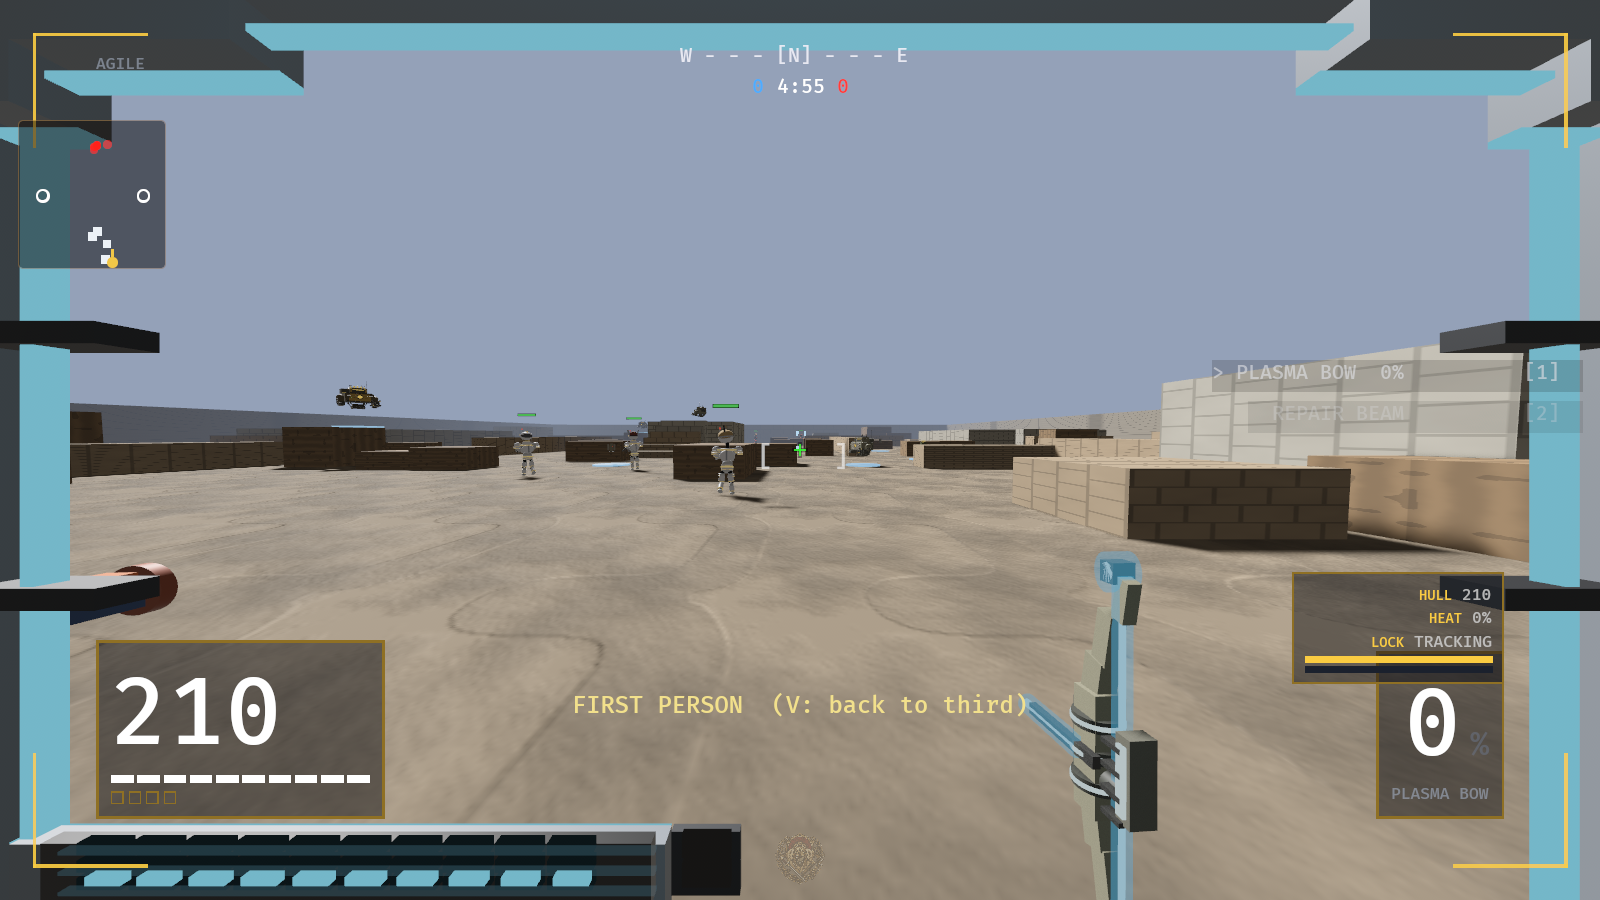
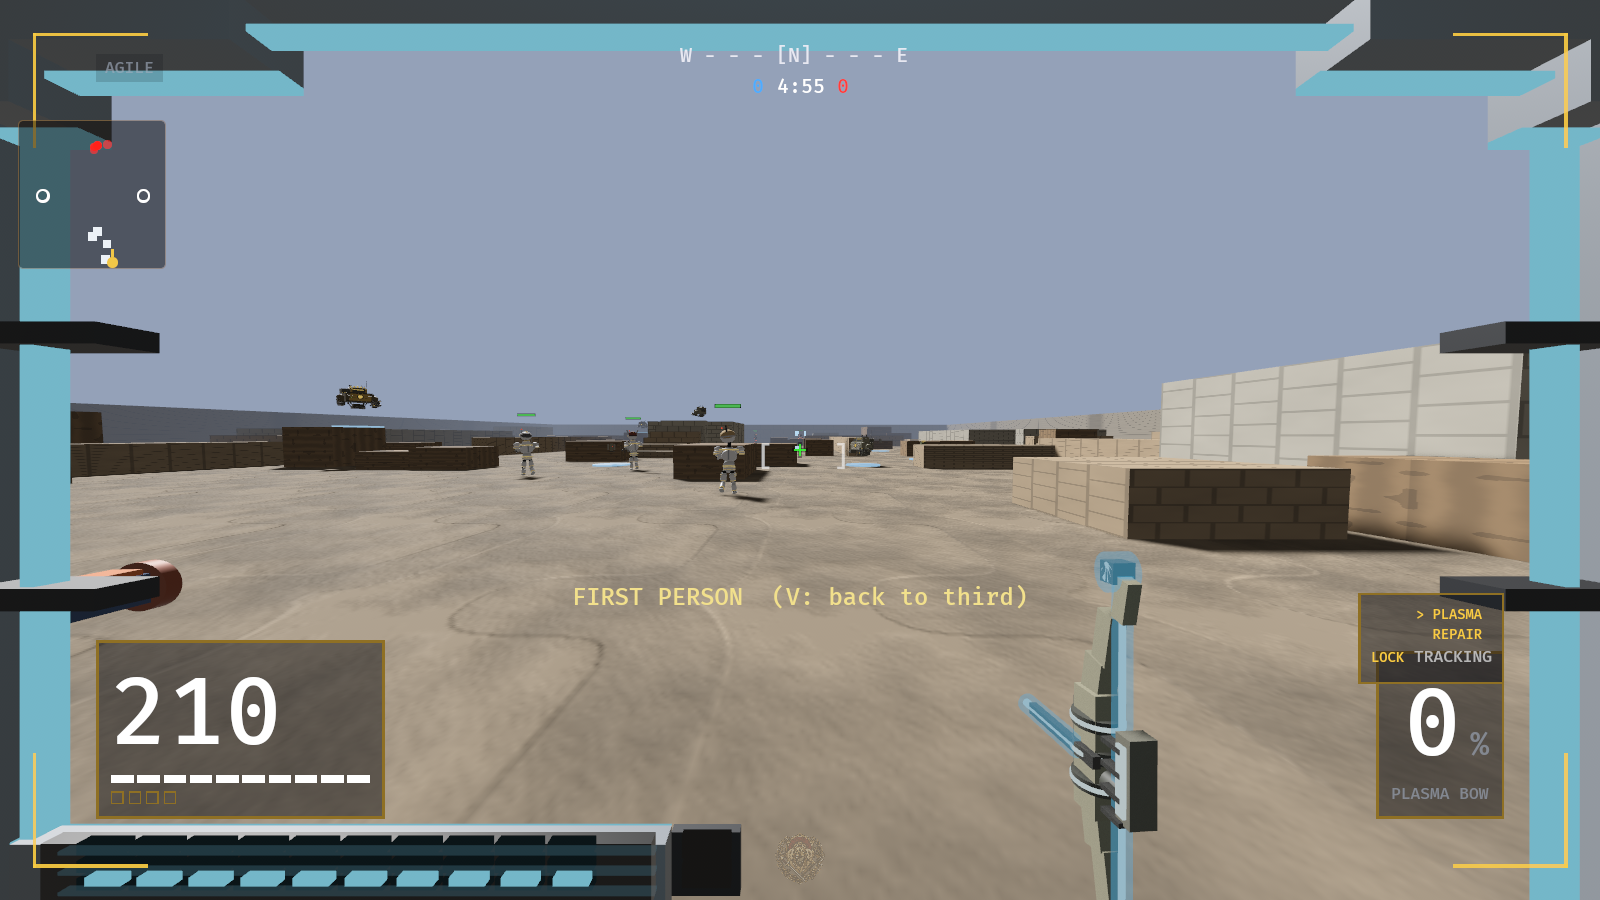
BRIEF XII-A: two things the capture caught that reading could not
The first hud_contrast run photographed the mount name twice, four hundred pixels apart, spelled differently: "> TURRET 300" in the systems column and "AUTOCANNON" under the numeral, for the same mount. paint_ammo's default arm had a hardcoded string and Gatling falls into it. Both now come from mount_name, which is the only place those five words exist.

The same run photographed the boarding prompt - a full-width line reading "BIG MECH BOARDED - 1/2: MOUNTS - C: REPULSOR - U: DISMOUNT - protect your REAR" - struck straight through both big numerals at bottom 20%, which is the row they occupy. It is raised to 32%, above the numeral band and below the centre third, and prompt_clears_the_numerals fails at 20.

Neither was reasoned out; both were visible the moment a frame existed, and neither had a frame before this script.

Also: the pitch sign runs the other way from the guess. A beat named 01-pale-sky photographed the ground. The two frames are relabelled from what they actually contain, and the mislabelled pair is deleted rather than left in the tree - a frame whose label disagrees with its pixels has already been shipped three times here.

The heavy gets a belt during hud_contrast staging. Without it the frame read 0 in the empty-magazine red beside TURRET 0 / ROCKETS 0, which is indistinguishable from a known bug, and a HUD frame that looks like a bug is not evidence.

diff --git a/engine/crates/jk_tdm/src/hud.rs b/engine/crates/jk_tdm/src/hud.rs
@@ -267,6 +267,22 @@ fn systems_lines(
 /// and a shield line.
 const SYSTEMS_ROWS: usize = 4;
 
+/// Where the legacy contextual prompt sits, in percent from the bottom.
+///
+/// It was 20%, which is inside the numeral band — see
+/// `reanchor_legacy_centred_text`. `prompt_clears_the_numerals` is the
+/// test, and it fails at 20.
+const PROMPT_BOTTOM_PCT: f32 = 32.0;
+
+/// The height of a bottom-corner numeral cluster, in percent of a 720p
+/// screen: the numeral itself plus the two bar rows and the padding.
+/// Used only to prove the prompt clears it.
+fn numeral_cluster_height_pct() -> f32 {
+    // T_NUMERAL glyph box + segment bar + armour pip row + row gaps +
+    // 10 px of padding top and bottom, over 720.
+    (T_NUMERAL + 6.0 + 10.0 + 4.0 + 3.0 + 20.0) / 720.0 * 100.0
+}
+
 /// The single top-centre urgent line. ONE line, highest priority only.
 ///
 /// The old top-centre slot carried the clock, the score, a parenthetical
@@ -906,6 +922,16 @@ fn reanchor_legacy_centred_text(
     for mut n in &mut prompt {
         n.left = Val::Px(0.0);
         n.width = Val::Percent(100.0);
+        // XII-A: and UP, out of the numeral band.
+        //
+        // The capture caught the boarding prompt — "BIG MECH BOARDED -
+        // 1/2: MOUNTS - C: REPULSOR - U: DISMOUNT - protect your REAR"
+        // — running the full width of the screen at bottom 20%, which is
+        // exactly the row the two big numerals occupy. It struck through
+        // the hull numeral on the left and the heat numeral on the
+        // right in every mech frame. That is the owner's "overlapping
+        // elements" in one line.
+        n.bottom = Val::Percent(PROMPT_BOTTOM_PCT);
         any = true;
     }
     for mut n in &mut compass {
@@ -1096,12 +1122,21 @@ fn paint_ammo(
                 },
                 p.gatling_vent_t > 0.0,
             ),
-            _ => {
+            // XII-A: name the mount from `mount_name`, the same function
+            // the systems column uses.
+            //
+            // The capture caught this arm labelling the GATLING turret
+            // "AUTOCANNON": `Gatling` falls into `_` here, so a frame
+            // read `> TURRET` in the systems column and `AUTOCANNON`
+            // under the numeral, four hundred pixels apart, for the same
+            // mount. Two spellings of one fact is precisely what this
+            // pass exists to remove.
+            other => {
                 let (a, b) = ammo_pair(p.mech_rounds, crate::MECH_ROUNDS);
                 (
                     a,
                     b,
-                    "AUTOCANNON".to_string(),
+                    mount_name(other).to_string(),
                     crate::ammo_is_low(p.mech_rounds, crate::MECH_ROUNDS),
                 )
             }
@@ -1551,6 +1586,27 @@ mod tests {
         assert!(busy.iter().any(|r| r.0 == "BARRIER"));
         // the column can never overflow the rows that were spawned
         assert!(busy.len() <= SYSTEMS_ROWS);
+    }
+
+    /// XII-A: the contextual prompt must sit ABOVE the numeral band.
+    ///
+    /// Caught by capture, not by reading: the boarding prompt is a long
+    /// full-width line and it struck straight through both big numerals
+    /// at bottom 20%. Mutation proof: this fails at 20.0, which is the
+    /// value the pre-change code shipped.
+    #[test]
+    fn prompt_clears_the_numerals() {
+        // where the vitals/ammo clusters START, from HUD_ANCHORS
+        let (_, o) = corner("vitals");
+        let cluster_bottom = -(o[1]) * 100.0;
+        let cluster_top = cluster_bottom + numeral_cluster_height_pct();
+        assert!(
+            PROMPT_BOTTOM_PCT > cluster_top,
+            "the prompt at {PROMPT_BOTTOM_PCT}% crosses a numeral cluster \
+             reaching {cluster_top}%"
+        );
+        // and it must not climb into the centre third either
+        assert!(PROMPT_BOTTOM_PCT < 100.0 / 3.0 + 1.0);
     }
 
     /// The human HUD is no longer bare text on the world. Mutation

diff --git a/engine/crates/jk_tdm/src/main.rs b/engine/crates/jk_tdm/src/main.rs
@@ -6031,13 +6031,19 @@ const HUD_CONTRAST_BEATS: &[CapBeat] = &[
     // below rather than for one of them
     CapBeat { press: &[CapKey::K(KeyCode::Digit4)], ..beat(0.7) },
     CapBeat { release: &[CapKey::K(KeyCode::Digit4)], ..beat(0.8) },
-    // UP: sky. The palest thing in the build.
-    CapBeat { look: Some((0.0, 0.45)), ..beat(1.0) },
-    CapBeat { snap: Some("01-pale-sky"), ..beat(1.7) },
-    // DOWN: the ground immediately under the chassis, which is in its
-    // own shadow and is the darkest surface reachable without moving.
+    // The pitch sign was learned from the first run rather than
+    // reasoned: POSITIVE pitches the view DOWN. A beat labelled
+    // "01-pale-sky" photographed the ground on that run, which is the
+    // second time this harness has produced a frame whose label
+    // disagreed with its pixels.
+    //
+    // DOWN, hard: the cockpit floor and the chassis's own shadow fill
+    // both bottom corners. This is the DARK backdrop.
+    CapBeat { look: Some((0.0, 1.05)), ..beat(1.0) },
+    CapBeat { snap: Some("01-dark-cockpit-floor"), ..beat(1.7) },
+    // UP: sky above the wall, the palest thing in the build.
     CapBeat { look: Some((0.0, -0.55)), ..beat(1.9) },
-    CapBeat { snap: Some("02-dark-ground"), ..beat(2.5) },
+    CapBeat { snap: Some("02-pale-sky"), ..beat(2.5) },
     // and the four compass looks at eye level, so the pair above is not
     // the only evidence and a middling scene is on record too
     CapBeat { look: Some((0.0, 0.0)), ..beat(2.7) },
@@ -7206,6 +7212,19 @@ fn capture_board_medic(
         if !*hull_granted {
             f.hull = f.mech_hull_max();
             *hull_granted = true;
+        }
+        // BRIEF XII-A: and a BELT for the contrast script.
+        //
+        // The first run photographed `0` in the empty-magazine red with
+        // `TURRET 0 / ROCKETS 0` beside it, because nothing in this hook
+        // ever granted the heavy's ammunition - which is the exact
+        // reading the medic bug produced, arrived at from the opposite
+        // direction, and a HUD frame that looks like a known bug is not
+        // usable evidence. Scoped to this script so no existing capture
+        // changes.
+        if name == "hud_contrast" {
+            f.mech_rounds = MECH_ROUNDS;
+            f.pod_ammo = POD_TUBES;
         }
         f.mech_transition_t = 0.0;
         f.health = MAX_HEALTH;
